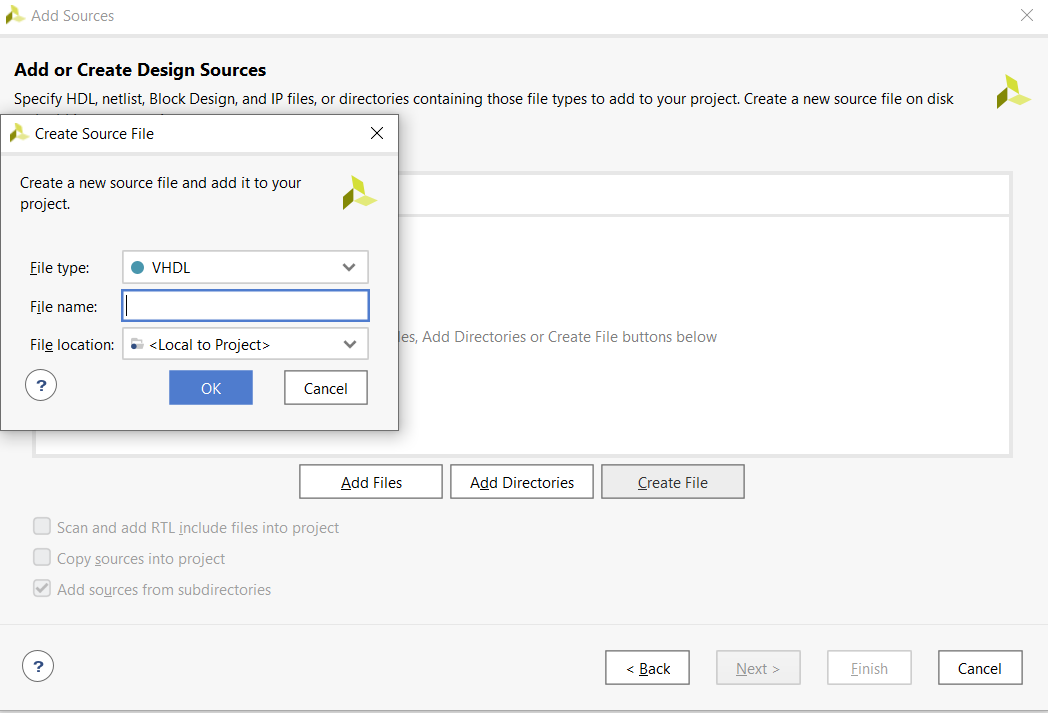
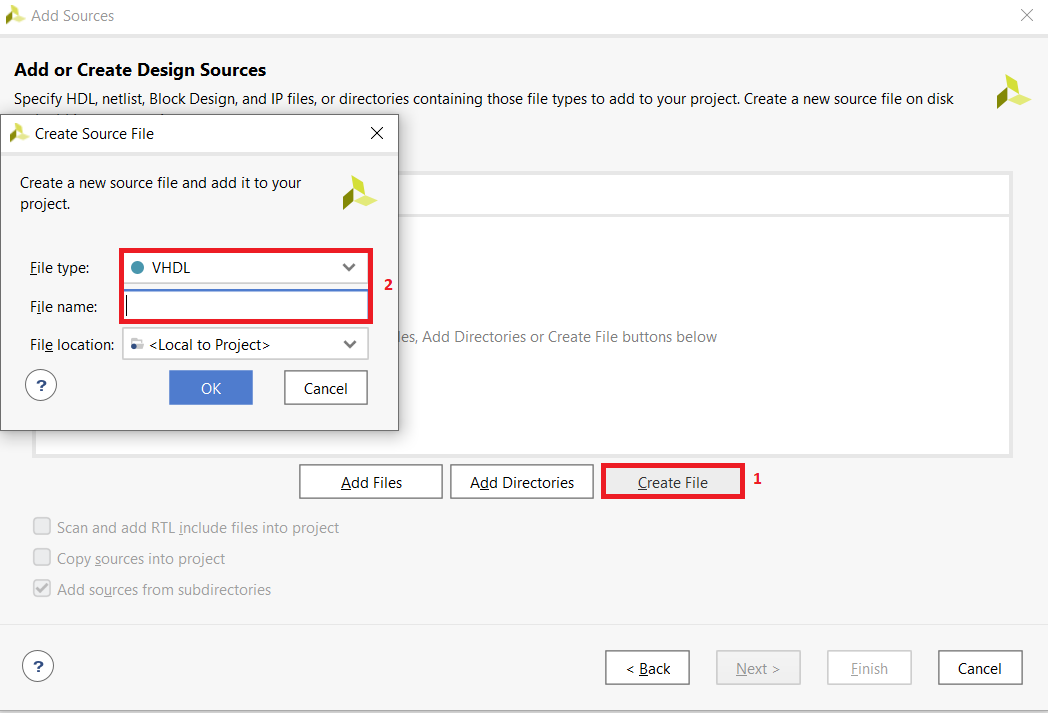
uprava

Changed region(s): [[0.0916, 0.3394, 0.3664, 0.4628], [0.5496, 0.648, 0.7328, 0.7097]]

diff --git a/Labs/03-vivado/README.md b/Labs/03-vivado/README.md
@@ -90,7 +90,9 @@ Po otevření programu Vivado zadáme *Create new project*. Vyskočí nám nové
 Postupujeme přesně jako na obrázku. Nejříve si vybereme záložku *boards* a v pole pro vyhledávání napíšešme *Nexys* vě výběru potom volíme *Nexys A7-50T* a dáme next. Na další straně už klikneme na tlačítko *finish*, pro vytvoření projektu.
 ![Deska](./images/deska.PNG)</br>
 Předchozími kroky jsme vytvořili prázdný projekt. Nyní si do projektu přidáme nějaké soubory. Nejdříve si přídáme soubor pro *design* z [EDA playground](https://www.edaplayground.com/x/uCyF) zkopírujeme kód z *design*. V programu Vivado v navigační liště klikneme na *add sources* dále vybereme *add or create design sources*, klikneme na *next*.
-![add_1](./images/add_1.PNG)
-Na další straně vybere *Create file*. Po vyskočení okénka vybereme jazyk VHDL a zadáme název. Klikneme na *finish*, pak už jen vše potvrdíme.
+![add_1](./images/add_1.PNG)</br>
+Na další straně vybereme *Create file*. Po vyskočení okénka vybereme jazyk VHDL a zadáme název.
+![add_2](./images/add_2.PNG)</br>
+ Klikneme na *finish*, pak už jen vše potvrdíme.
 
 
